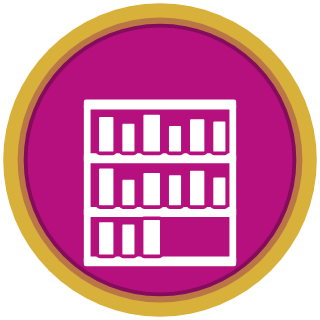
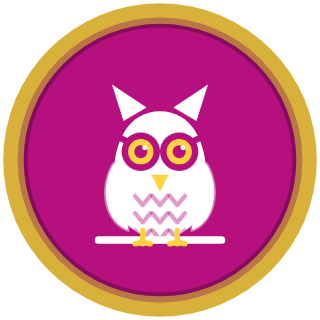
badges: owl row replaces bookshelf; habits: optional start date/time; v2.6.5+130
Claude-Session: https://claude.ai/code/session_01L5b88pmCpPwtZjihK8wpK9

Changed region(s): [[0.25, 0.25, 0.75, 0.8438]]

diff --git a/flutter_app/test/habit_ops_test.dart b/flutter_app/test/habit_ops_test.dart
@@ -51,7 +51,7 @@ void main() {
     expect(find.text('ورزش'), findsOneWidget);
     await tester.tap(find.text('عادت جدید'));
     await tester.pump(const Duration(milliseconds: 500));
-    expect(find.text('ذخیره'), findsOneWidget);
+    expect(find.text('ذخیره', skipOffstage: false), findsOneWidget);
     await tester.pumpWidget(const SizedBox());
   });
 }
